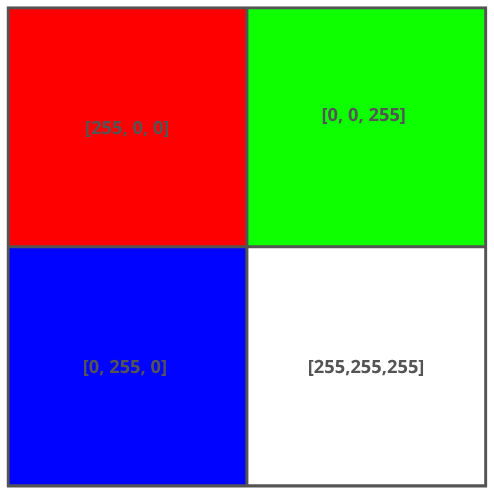
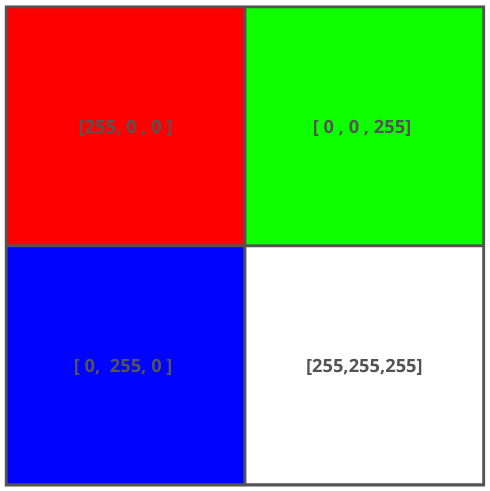
Add files via upload

diff --git a/Modulos/Modulos1e2.md b/Modulos/Modulos1e2.md
@@ -31,6 +31,7 @@ Uma imagem é formada por **pixels (caixas)**, e sua resolução depende da quan
 |  4k  |     3840      |    2160     |
 
 Dessa forma, de acordo com o sistema de coloração da imagem, os pixels podem assumir valores distintos:
+
 **(a) Imagem binária** - imagem preto e branco com 2 níveis de cor (0 ou 1);
 
 <img src="../imagens/mod1_2.png" width="294">
@@ -43,9 +44,7 @@ Dessa forma, de acordo com o sistema de coloração da imagem, os pixels podem a
 
 <img src="../imagens/mod1_4.png" width="294">
 
-Para o OpenCV, o sistema de cores utilizado é **[B,G,R] (Blue, Green, Red)**, no padrão geral.
-
-Agora, vamos ver alguns exemplos de funcionalidades com o OpenCV:
+Para o OpenCV, o sistema de cores utilizado é **[B,G,R] (Blue, Green, Red)**, no padrão geral. Estudaremos espaços de cores mais adiante. Agora, vamos ver alguns exemplos de funcionalidades com o OpenCV:
 
 ## **II.) Criando uma variável imagem:**
 
